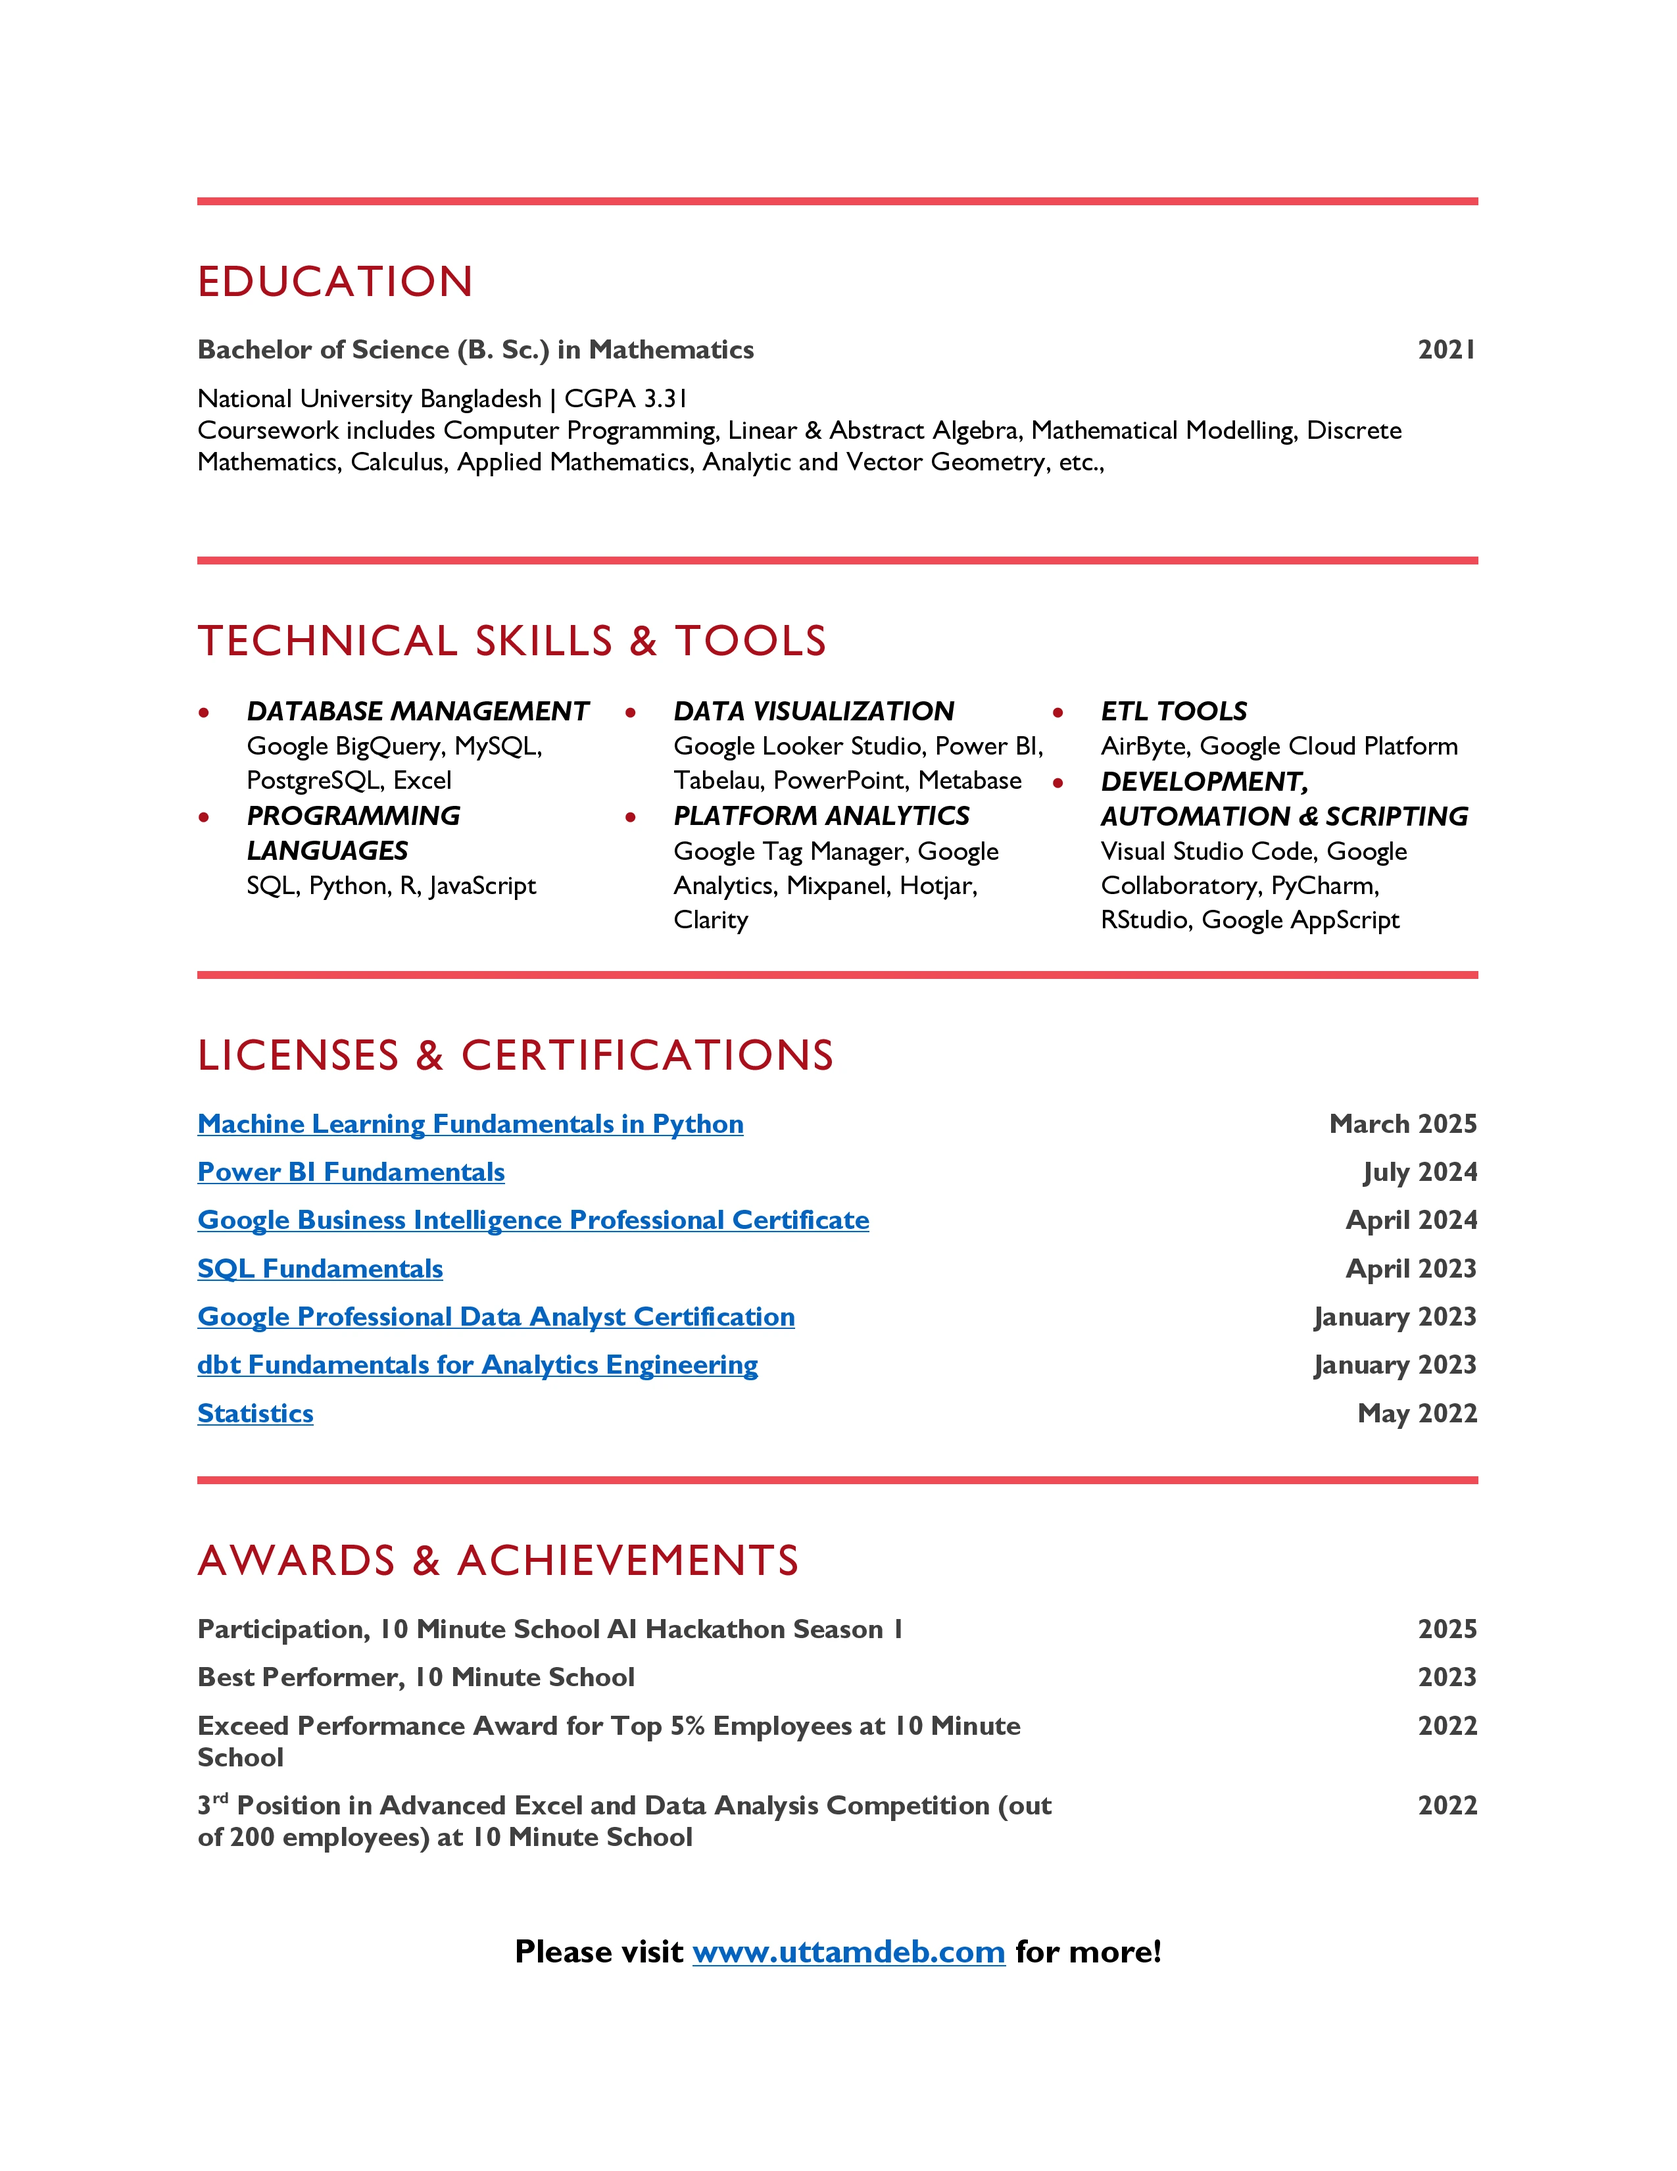
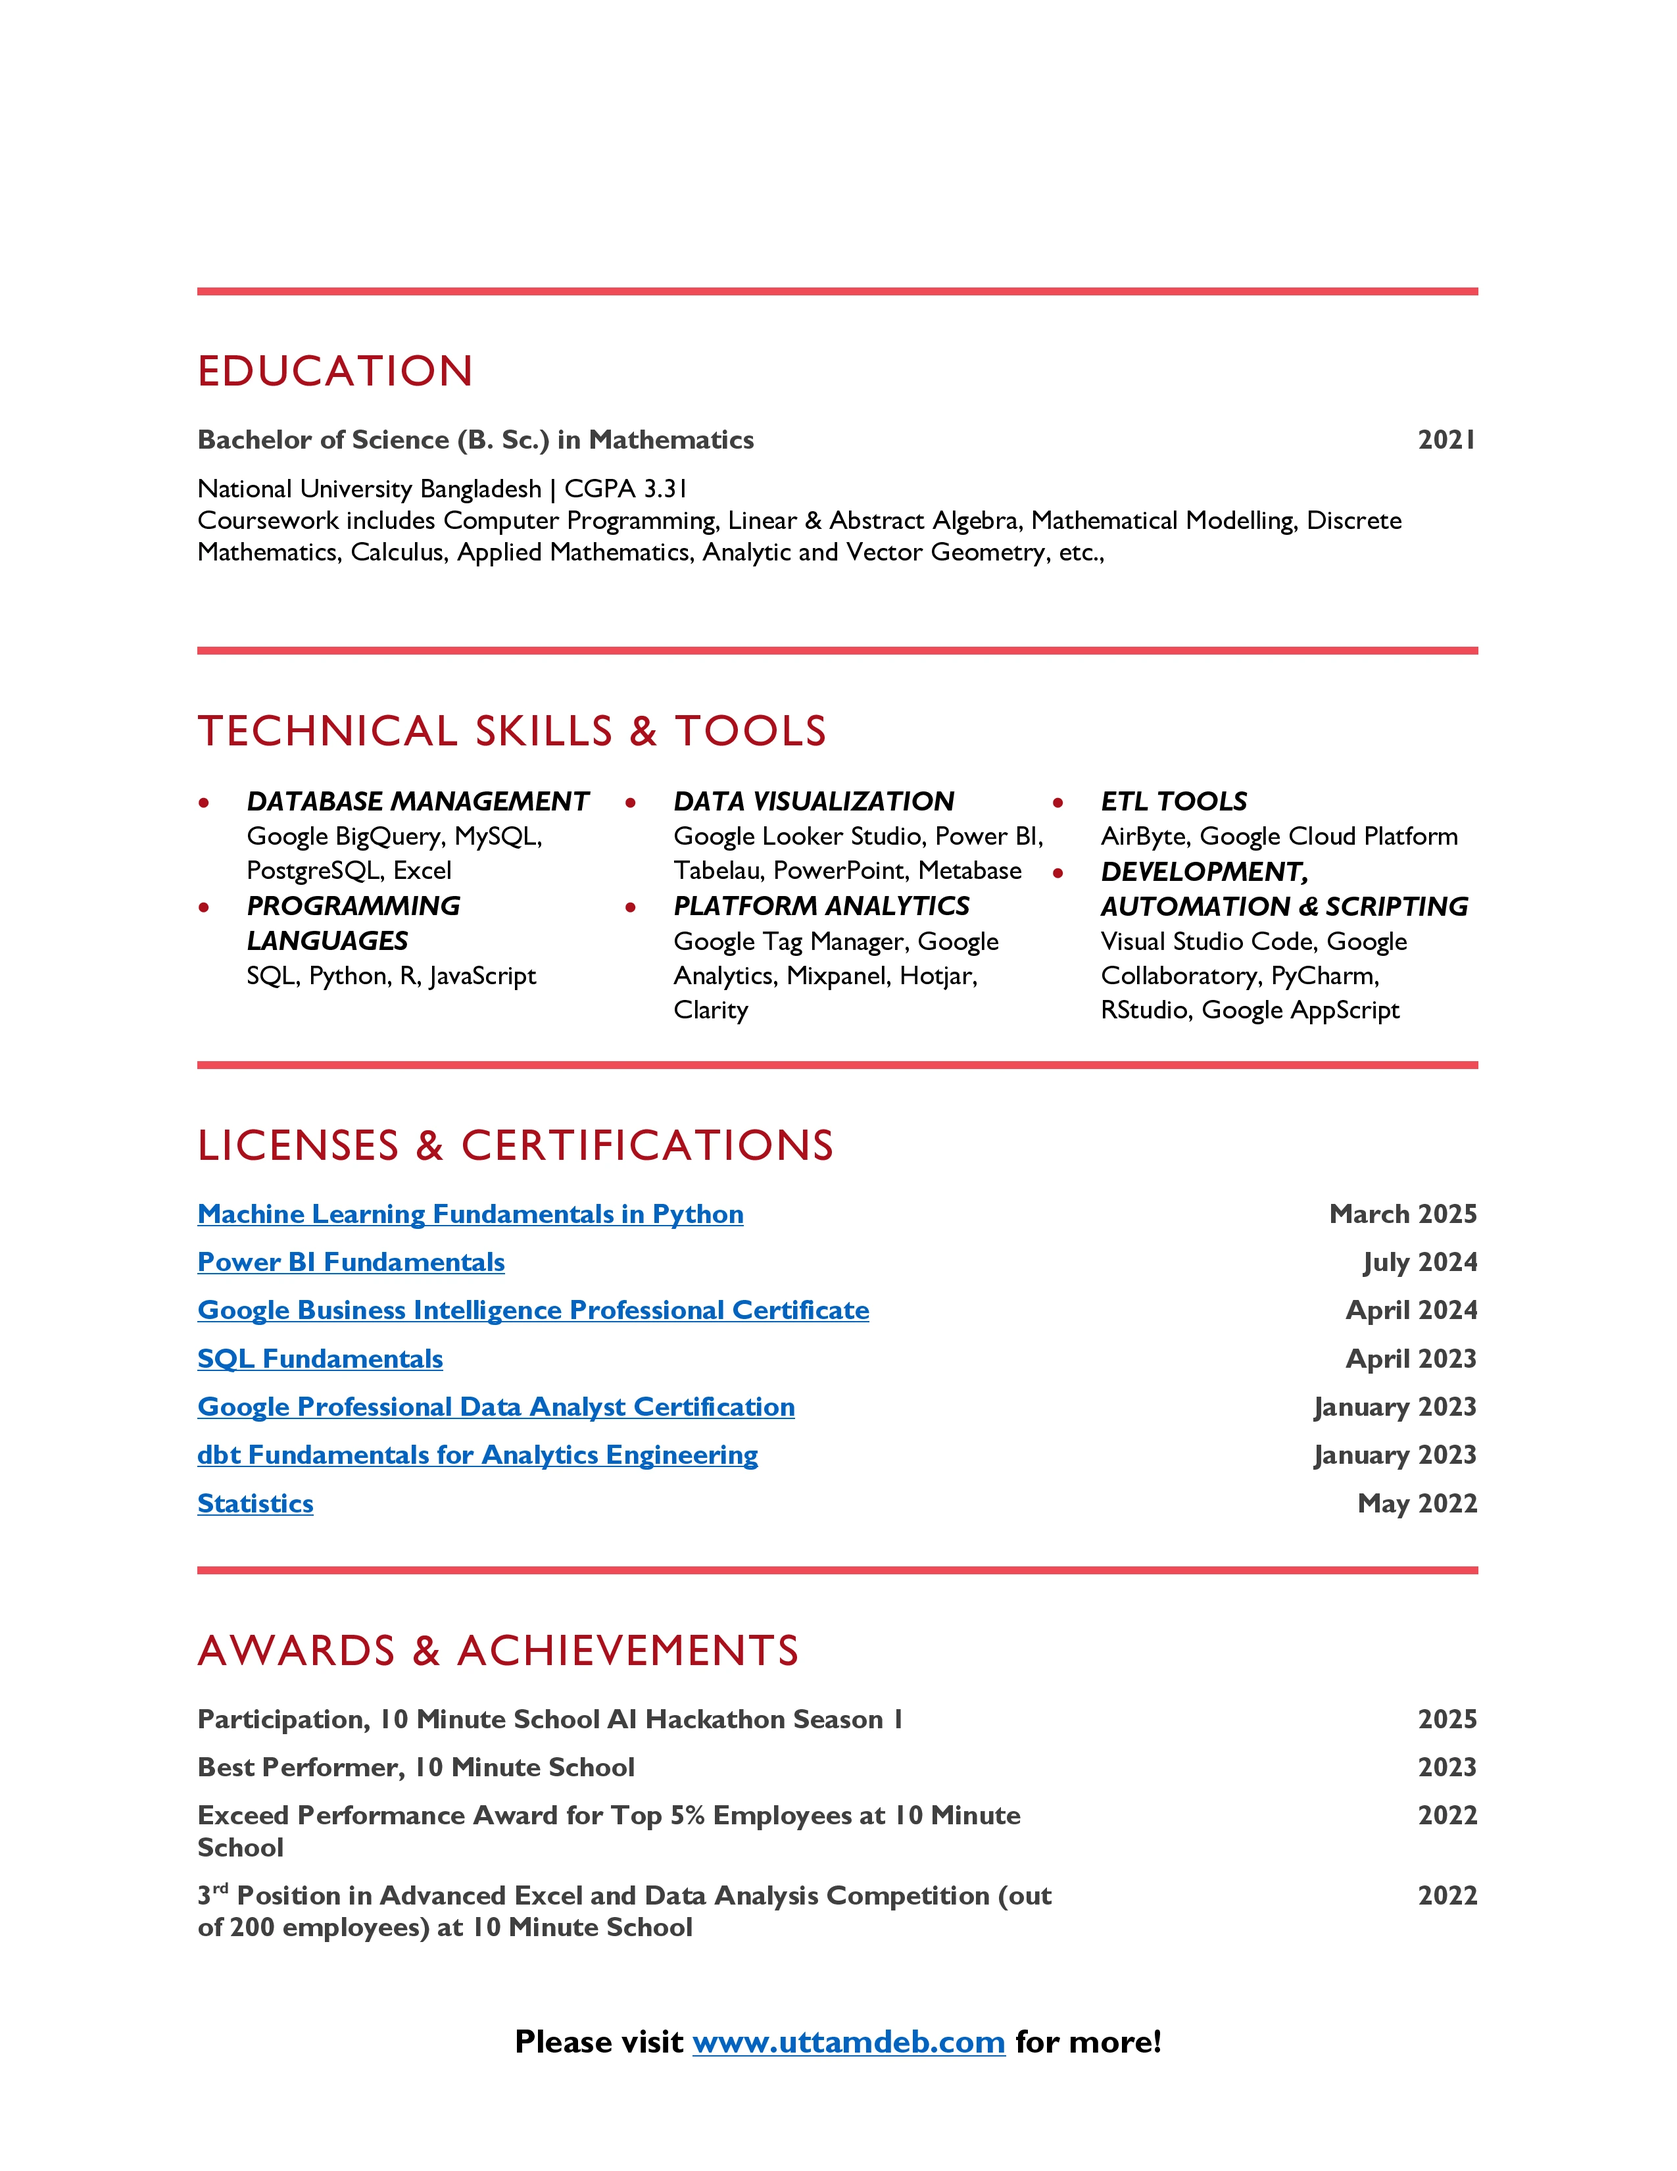
Updated Experience + resumé
v1.3.0 (July 6, 2025)
1. Updated Experience: 10 Minute School
2. New Experience: SheSTEM
3. Updated resumé

Changed region(s): [[0.1239, 0.1248, 0.8984, 0.9052], [0.3098, 0.9364, 0.6816, 0.9676]]

diff --git a/experience.html b/experience.html
@@ -78,11 +78,12 @@
 						<!-- Featured Post -->
 							<article class="post featured">
 								<header>
-									<span class="date">May 1, 2021 - </span>
+									<span class="date">May 1, 2021 - Present </span>
 									<h1><a href="https://www.10minuteschool.com">10 Minute School</a></h1>
 									<p><b><h2>Senior Business Intelligence Analyst</h2></b></p>
 									<p><h3>What do I do here at 10MS?</h3></p>
 									<p>- Designed and maintained dynamic dashboards tracking key performance indicators (KPIs) across content, product, and marketing using advanced visualization tools such as Google Data (Looker) Studio, Tableau, Excel, Power BI, and PowerPoint, enabling stakeholders to make informed, strategic decisions.</p>
+									<p>- Spearheading the development of 10 Minute School’s flagship AI initiatives, codenamed BhashaAI, a scenario-based, turn-based conversational speech-to-speech agent, and VidyasagarAI, an intelligent doubt-solving assistant delivering personalized responses to students and educators across Bangladesh. These systems are built using a robust stack of cutting-edge technologies, including on-premises and localized LLMs (Large Language Models), STT (speech-to-text) transcribers, and TTS (text-to-speech) speech generators from Ollama and Hugging Face. The architecture integrates Voice Activity Detection, Turn Detection, WebRTC for real-time communication, and advanced prompting strategies such as ReAct (Reasoning + Acting) and Chain-of-Thought (CoT). Retrieval-Augmented Generation (RAG) and Context-Augmented Generation (CAG), semantic search, vector databases, contextual chunking, fine-tuning, re-ranking, embeddings, and evaluation pipelines (Evals) are also core to the system. This work reflects a deep commitment to building scalable, inclusive, and context-aware AI solutions that are pedagogically grounded and tailored to the dynamic needs of learners in low-resource environments. </p>
 									<p>- Monitored and analyzed website traffic trends through Google Analytics, Google Tag Manager, Mixpanel, Hotjar, and Clarity, contributing directly to optimizing user experience and driving engagement growth to over 2 million Monthly Active Users (MAU) on average in 2024.</p>
 									<p>- Developed actionable insights by tracking and visualizing product performance and sales metrics using Google BigQuery, Snowflake, and Metabase, leading to measurable improvements in product adoption and revenue.</p>
 									<p>- Led analytical operations for international research initiatives, including Teaching at the Right Level (TARL) methodologies utilizing Randomized Controlled Trials (RCT), in collaboration with Monash University Australia, effectively identifying critical user behavior patterns that aims to improve educational outcomes.</p>
@@ -106,6 +107,30 @@
 								<a href="https://www.10minuteschool.com" class="image main"><img src="images/10ms.webp" alt="10 Minute School" /></a>
 								<ul class="actions special">
 									<li><a href="https://www.10minuteschool.com" class="button primary">View Company Website</a></li>
+								</ul>
+							</article>
+
+							<article class="post featured">
+								<header>
+									<span class="date">April 1, 2025 - Present </span>
+									<h1><a href="https://shestem.org/">SheSTEM</a></h1>
+									<p><b><h2>Python for AI and ML Course Instructor</h2></b></p>
+									<p><b><h2>Co-Design Guest Speaker</h2></b></p>
+									<p><b><h2>Professional Mentor</h2></b></p>
+									<!-- <p><h3>What do I do here at 10MS?</h3></p> -->
+									<p>- Conducted live, application-focused Python for AI and ML classes at SheSTEM and 10 Minute School, using tools like Google Colab, JupyterLab, Visual Studio Code, NumPy, pandas, Matplotlib, TensorFlow, and scikit-learn, tailored for female STEM learners. </p>	
+									<p>- Provided holistic mentorship to aspiring and recent female STEM graduates, offering guidance on technical skills, career pathways, and confidence-building in the Engineering landscape. </p>
+									<p>- Served as a guest speaker for ‘Co-Design’ sessions at leading Bangladeshi universities, highlighting Python’s strategic role in AI/ML development and inspiring academia-industry partnerships. </p>									
+								</header>
+								  <div class="gallery">
+    							  <a href="https://www.linkedin.com/posts/uttam-deb_shestem-aust-10ms-activity-7346058972883230720-tDtQ/"><img src="images/shestem_speaking1.webp" width="480" height="640" alt="Uttam Speaking at Co-Design Session" /></a>
+   								  <a href="https://www.linkedin.com/posts/uttam-deb_shestem-aust-10ms-activity-7346058972883230720-tDtQ/"><img src="images/shestem_speaking2.webp" width="480" height="640" alt="Uttam Speaking at Co-Design Sessio" /></a>
+    							  <a href="https://www.linkedin.com/posts/uttam-deb_shestem-aust-10ms-activity-7346058972883230720-tDtQ/"><img src="images/shestem_photosession1.webp" width="800" height="600" alt="Photo Session" /></a>
+  								  <a href="https://www.linkedin.com/posts/uttam-deb_shestem-aust-10ms-activity-7346058972883230720-tDtQ/"><img src="images/shestem_photosession2.webp" width="800" height="600" alt="Photo Session" /></a>
+ 								 </div>
+								<a href="https://shestem.org/" class="image main"><img src="images/shestem.webp" alt="SheSTEM" /></a>
+								<ul class="actions special">
+									<li><a href="https://shestem.org/" class="button primary">View Organization Website</a></li>
 								</ul>
 							</article>
 
@@ -258,7 +283,7 @@
 				<div id="copyright" style="color: grey;">
 					<ul>
 					  <li><b>© 2025 Uttam Deb</b></li>
-					  <li><b>v1.2.2</b></li>
+					  <li><b>v1.3.0</b></li>
 					  <li><b>Hosted in: <a href="https://github.com" style="color: grey;"><b>GitHub</b></a></b></li>
 					</ul>
 				  </div>

diff --git a/resumé.html b/resumé.html
@@ -80,15 +80,15 @@
 							<article class="post featured">
 								<header>
 									<!-- <span class="date">April 1, 2023 - </span> -->
-									<h1><a href="https://drive.google.com/file/d/1OjsvbOttNyUcUws-7PEcZmQ97jGDAcbv/view?usp=drive_link">My Resumé</a></h1>
+									<h1><a href="https://drive.google.com/file/d/1hI266hAJZt0QhVbEYAYEIl6Xp_9YSwDD/view?usp=drive_link">My Resumé</a></h1>
 									<p><b><h3>Click below to download my latest resumé</h3></b></p>
 									<!-- <p>Click below to download my latest resumé</p> -->
 										
 								</header>
-								<a href="https://drive.google.com/file/d/1OjsvbOttNyUcUws-7PEcZmQ97jGDAcbv/view?usp=drive_link" class="image main"><img src="images/UttamDebResumeApril12025Page1.webp" alt="Uttam Deb Resume" /></a>
-								<a href="https://drive.google.com/file/d/1OjsvbOttNyUcUws-7PEcZmQ97jGDAcbv/view?usp=drive_link" class="image main"><img src="images/UttamDebResumeApril12025Page2.webp" alt="Uttam Deb Resume" /></a>
+								<a href="https://drive.google.com/file/d/1hI266hAJZt0QhVbEYAYEIl6Xp_9YSwDD/view?usp=drive_link" class="image main"><img src="images/UttamDebResumeApril12025Page1.webp" alt="Uttam Deb Resume" /></a>
+								<a href="https://drive.google.com/file/d/1hI266hAJZt0QhVbEYAYEIl6Xp_9YSwDD/view?usp=drive_link" class="image main"><img src="images/UttamDebResumeApril12025Page2.webp" alt="Uttam Deb Resume" /></a>
 								<ul class="actions special">
-									<li><a href="https://drive.google.com/file/d/1OjsvbOttNyUcUws-7PEcZmQ97jGDAcbv/view?usp=drive_link" class="button primary">Download Resumé</a></li>
+									<li><a href="https://drive.google.com/file/d/1hI266hAJZt0QhVbEYAYEIl6Xp_9YSwDD/view?usp=drive_link" class="button primary">Download Resumé</a></li>
 								</ul>
 							</article>
 
@@ -241,7 +241,7 @@
 				<div id="copyright" style="color: grey;">
 					<ul>
 					  <li><b>© 2025 Uttam Deb</b></li>
-					  <li><b>v1.2.2</b></li>
+					  <li><b>v1.3.0</b></li>
 					  <li><b>Hosted in: <a href="https://github.com" style="color: grey;"><b>GitHub</b></a></b></li>
 					</ul>
 				  </div>

diff --git a/index.html b/index.html
@@ -346,7 +346,7 @@ document.addEventListener('DOMContentLoaded', function() {
 				<div id="copyright" style="color: grey;">
 					<ul>
 					  <li><b>© 2025 Uttam Deb</b></li>
-					  <li><b>v1.2.2</b></li>
+					  <li><b>v1.3.0</b></li>
 					  <li><b>Hosted in: <a href="https://github.com" style="color: grey;"><b>GitHub</b></a></b></li>
 					</ul>
 				  </div>

diff --git a/achievements.html b/achievements.html
@@ -277,7 +277,7 @@
 				<div id="copyright" style="color: grey;">
 					<ul>
 					  <li><b>© 2025 Uttam Deb</b></li>
-					  <li><b>v1.2.2</b></li>
+					  <li><b>v1.3.0</b></li>
 					  <li><b>Hosted in: <a href="https://github.com" style="color: grey;"><b>GitHub</b></a></b></li>
 					</ul>
 				  </div>

diff --git a/linkedin-feed.html b/linkedin-feed.html
@@ -305,7 +305,7 @@
 				<div id="copyright" style="color: grey;">
 					<ul>
 					  <li><b>© 2025 Uttam Deb</b></li>
-					  <li><b>v1.2.2</b></li>
+					  <li><b>v1.3.0</b></li>
 					  <li><b>Hosted in: <a href="https://github.com" style="color: grey;"><b>GitHub</b></a></b></li>
 					</ul>
 				  </div>
